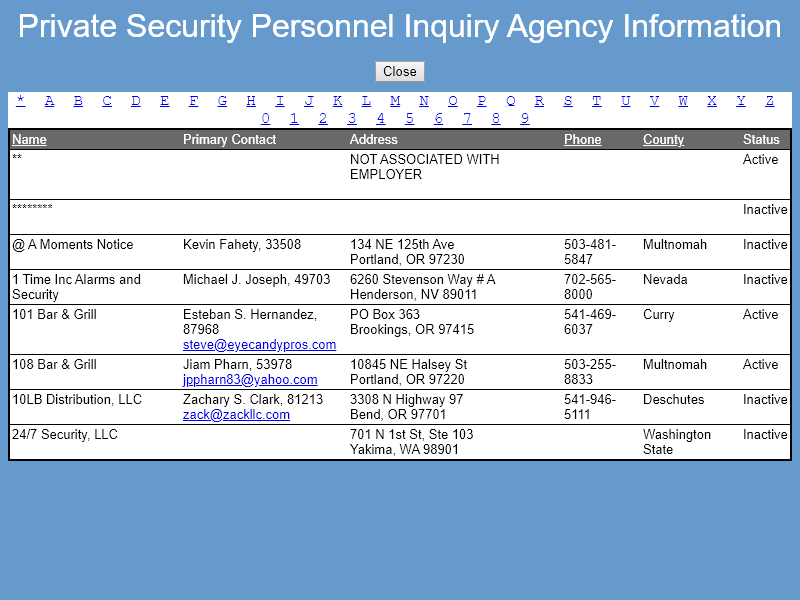
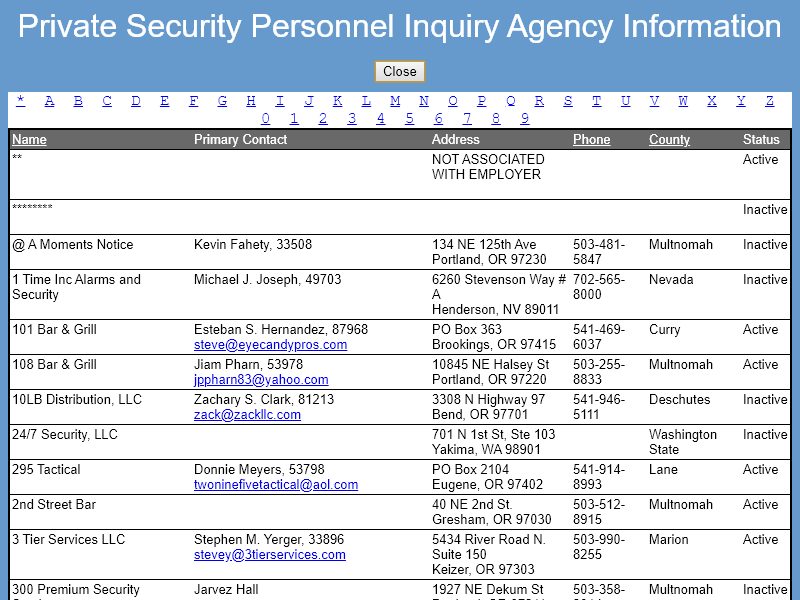
finally got some information from the node lists

diff --git a/index3.js b/index3.js
@@ -1,0 +1,90 @@
+const puppeteer = require("puppeteer");
+// var fs = require("fs");
+const fsp = require("fs").promises;
+
+let pageCount = 1; // 21 full pages of content
+let companyRows;
+function delay(time) {
+  return new Promise(function(resolve) {
+    setTimeout(resolve, time);
+  });
+}
+
+(async () => {
+  try {
+    const browser = await puppeteer.launch();
+
+    const page = await browser.newPage();
+    page.on("console", msg => {
+      for (let i = 0; i < msg.args().length; ++i)
+        console.log(`${i}: ${msg.args()[i]}`);
+    });
+    // page.evaluate(() => console.log("hello", 5, { foo: "bar" }));
+    await page.goto(
+      "http://dpsstnet.state.or.us/IRIS_PublicInquiry/PrivateSecurity/SMSAgcyTable.aspx"
+    );
+
+    //Clicks a tag by id
+    // await page.$eval("#btnNALL", el => el.click());
+    await page.click("#btnNaLL");
+    //
+    await page.waitFor(1000);
+
+    const result = await page.evaluate(() => {
+      let row = document.querySelectorAll("tr");
+      //   for (var i = 0; i < companyRows.length; i++) {
+      //     console.log(companyRows[i].cells);
+      //   }
+      row.forEach(el => {
+        // console.log(el.cells);
+        for (data of el.cells) {
+          //GOT SOME STUUFFFF
+          console.log(data.innerText);
+        }
+      });
+      return row;
+    });
+    // await page.evaluate(() => {
+    //   //   await page.addScriptTag({ path: './node_modules/fs/build/fs.js' });
+    //   companyRows = document.querySelectorAll("tr");
+    //   console.log(companyRows);
+    // });
+
+    // for (var i = 0; i < companyRows.length; i++) {
+    //   console.log(companyRows[i].cells);
+    // }
+    //
+    // await page
+    //   .$eval(() => {
+    //     const grabFromRow = row => row.innerText.trim();
+    //     const grabFromData = data => data.innerText.trim();
+    //     const data = [];
+
+    //     const companyRows = document.querySelectorAll("tr");
+
+    //     for (const tr of companyRows) {
+    //       data.push(tr);
+    //     }
+    //     return data;
+    //   })
+    //   .then(val => {
+    //     console.log(val);
+    //   });
+    //
+    await page.screenshot({
+      path: "./screenshots/page1.png"
+    });
+    await page.pdf({ path: "./pdfs/page1.pdf" });
+
+    await browser.close();
+    // await page.waitFor(3000);
+    // await fsp.writeFile("./json/file.json", result.stringify());
+    return result;
+  } catch (error) {
+    console.log(error);
+  }
+})();
+// calling logic
+// scrape().then(value => {
+//   console.log(value);
+// });

diff --git a/index2.js b/index2.js
@@ -1,0 +1,63 @@
+(async () => {
+  try {
+    const browser = await puppeteer.launch();
+
+    const page = await browser.newPage();
+
+    await page.goto(
+      "http://dpsstnet.state.or.us/IRIS_PublicInquiry/PrivateSecurity/SMSAgcyTable.aspx"
+    );
+
+    //Clicks a tag by id
+    await page.$eval("#btnNALL", el => el.click());
+
+    await page.screenshot({
+      path: "./screenshots/page1.png"
+    });
+    await page.pdf({ path: "./pdfs/page1.pdf" });
+
+    await browser.close();
+  } catch (error) {
+    console.log(error);
+  }
+})();
+//
+// const puppeteer = require("puppeteer");
+
+// let pageCount = 1; // 21 full pages of content
+
+// const companies = await page.evaluate(() => {
+//   const grabFromRow = row => row.innerText.trim();
+
+//   const ROW_SELECTOR = "tr";
+//   const data = [];
+
+//   const companyRows = document.querySelectorAll(ROW_SELECTOR);
+
+//   for (const tr of companyRows) {
+//     data.push(tr);
+//   }
+//   console.log(data);
+// })(async () => {
+//   try {
+//     const browser = await puppeteer.launch();
+
+//     const page = await browser.newPage();
+
+//     await page.goto(
+//       "http://dpsstnet.state.or.us/IRIS_PublicInquiry/PrivateSecurity/SMSAgcyTable.aspx"
+//     );
+
+//     //Clicks a tag by id
+//     await page.$eval("#btnNALL", el => el.click());
+//     companies();
+//     await page.screenshot({
+//       path: "./screenshots/page1.png"
+//     });
+//     await page.pdf({ path: "./pdfs/page1.pdf" });
+
+//     await browser.close();
+//   } catch (error) {
+//     console.log(error);
+//   }
+// })();

diff --git a/index.js b/index.js
@@ -1,6 +1,20 @@
 const puppeteer = require("puppeteer");
 
-(async () => {
+let pageCount = 1; // 21 full pages of content
+
+const companies = await page.evaluate(() => {
+  const grabFromRow = row => row.innerText.trim();
+
+  const ROW_SELECTOR = "tr";
+  const data = [];
+
+  const companyRows = document.querySelectorAll(ROW_SELECTOR);
+
+  for (const tr of companyRows) {
+    data.push(tr);
+  }
+  console.log(data);
+})(async () => {
   try {
     const browser = await puppeteer.launch();
 
@@ -12,7 +26,7 @@ const puppeteer = require("puppeteer");
 
     //Clicks a tag by id
     await page.$eval("#btnNALL", el => el.click());
-
+    companies();
     await page.screenshot({
       path: "./screenshots/page1.png"
     });
